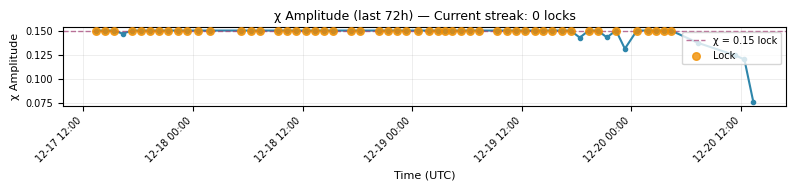
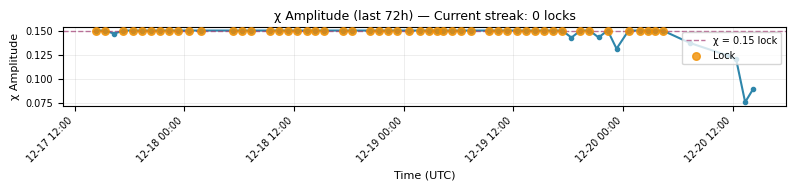
Vault Narrator: Auto-update 2025-12-20 15:04 UTC

diff --git a/LATEST_VAULT_STATUS.md b/LATEST_VAULT_STATUS.md
@@ -1,6 +1,6 @@
 # 🔐 VAULT STATUS REPORT
 
-**Generated:** 2025-12-20 14:04 UTC  
+**Generated:** 2025-12-20 15:04 UTC  
 **Data Source:** `data/cme_heartbeat_log_2025_12.csv`
 
 ---
@@ -11,14 +11,14 @@
 **Last Lock Timestamp:** 2025-12-20 04:20:00 UTC  
 
 **Latest Solar Wind Conditions:**  
-- Density: 5.02 p/cm³  
-- Speed: 448.9 km/s  
+- Density: 5.50 p/cm³  
+- Speed: 443.9 km/s  
 
 ---
 
 ## 🌞 NOAA SPACE WEATHER SUMMARIES
 
-- [SRS Report](reports/latest_srs.md) (fetched: 2025-12-20 14:04 UTC)  
+- [SRS Report](reports/latest_srs.md) (fetched: 2025-12-20 15:04 UTC)  
 - F10.7 Report: *not available*  
 
 ---
@@ -39,7 +39,6 @@
 
 | Time (UTC)          | χ Amplitude | Density (p/cm³) | Speed (km/s) | χ Status |
 |---------------------|-------------|-----------------|--------------|----------|
-| 2025-12-19 13:24:00 | 0.1500 | 1.33 | 514.0 | ✅ LOCK |
 | 2025-12-19 14:20:00 | 0.1500 | 1.55 | 507.9 | ✅ LOCK |
 | 2025-12-19 15:20:00 | 0.1500 | 1.45 | 526.4 | ✅ LOCK |
 | 2025-12-19 16:22:00 | 0.1500 | 2.41 | 533.3 | ✅ LOCK |
@@ -59,6 +58,7 @@
 | 2025-12-20 11:20:00 | 0.1245 | 3.62 | 456.5 | — |
 | 2025-12-20 12:22:00 | 0.1201 | 2.63 | 436.2 | — |
 | 2025-12-20 13:21:00 | 0.0760 | 5.02 | 448.9 | — |
+| 2025-12-20 14:15:00 | 0.0900 | 5.50 | 443.9 | — |
 
 ---
 
